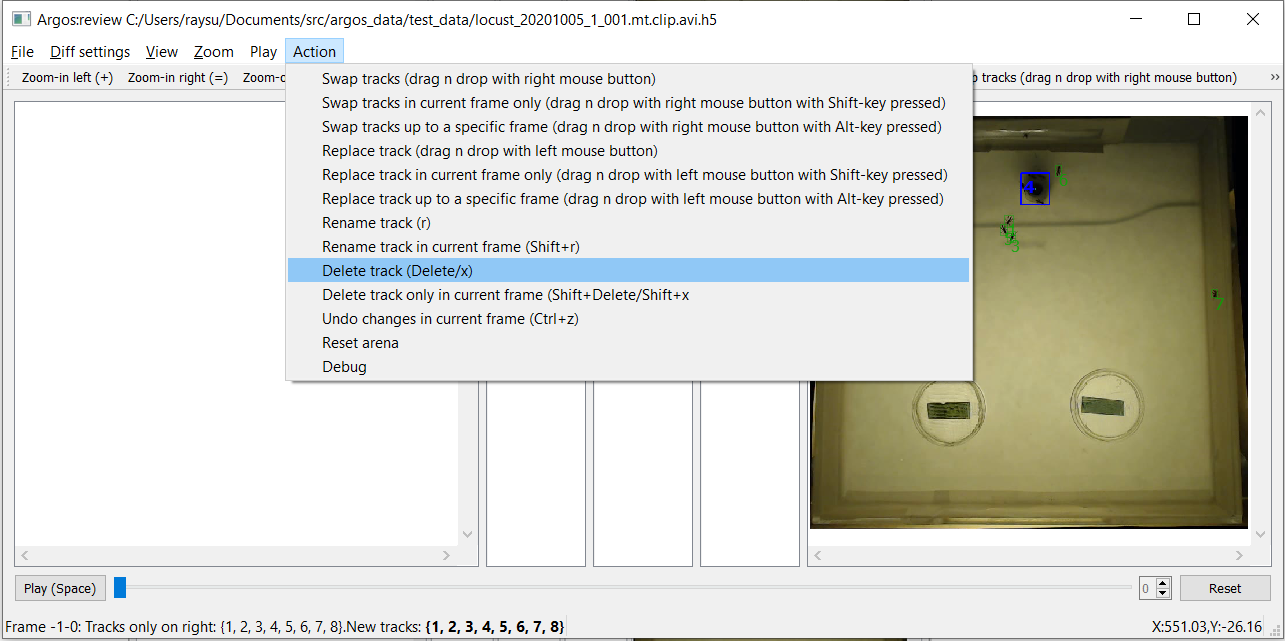
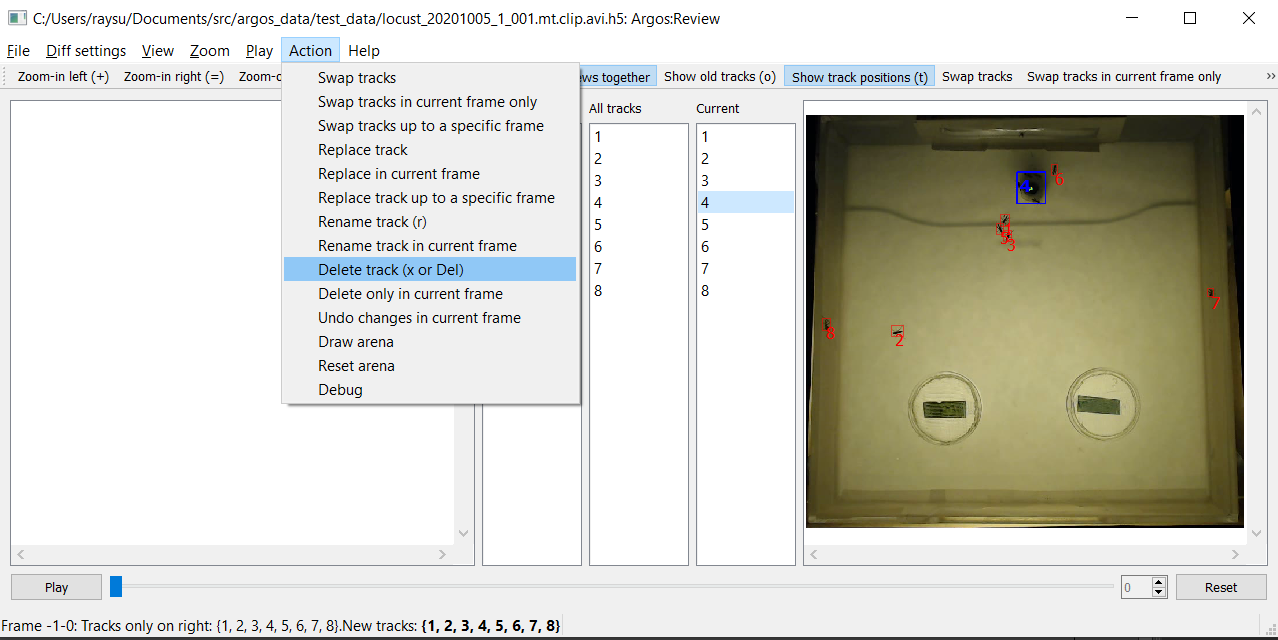
Updated review tool and its documentation.

diff --git a/argos/review.py b/argos/review.py
@@ -1405,35 +1405,70 @@ class ReviewWidget(qw.QWidget):
     def mousePosMessage(self, point: qc.QPointF) -> None:
         self.sigMousePosMessage.emit(f'X:{point.x():.02f},Y:{point.y():.02f}')
 
+    @qc.pyqtSlot()
+    def toggleShowTrackHistory(self) -> None:
+        if self.showHistoryAction.isChecked():
+            self._projectTrackHist([], 'left')
+            self._projectTrackHist([], 'right')
+            self.showHistoryAction.setChecked(False)
+            return
+
+        if self.left_list.currentItem() is None:
+            self._projectTrackHist([], 'left')
+        else:
+            self._projectTrackHist(
+                [int(self.left_list.currentItem().text())], 'left'
+            )
+        if self.right_list.currentItem() is None:
+            self._projectTrackHist([], 'right')
+        else:
+            self._projectTrackHist(
+                [int(self.right_list.currentItem().text())], 'right'
+            )
+
+        self.showHistoryAction.setChecked(True)
+
+    def _projectTrackHist(self, selected: list, side: str) -> None:
+        """Inner function to send signal to show track on either view.
+
+        Parameters
+        ----------
+        selected: list
+            List containing a single integer (trackid) or an empty list.
+        side: str
+            Side of the view to display track on, ``left`` or `right``.
+        """
+        if len(selected) == 0:
+            track = None
+        else:
+            # For both side, bring up full history
+            track = self.trackReader.getTrackId(selected[0], None)
+        if track is None:
+            track = np.empty(0)
+        else:
+            track.loc[:, 'x'] += track.w / 2.0
+            track.loc[:, 'y'] += track.h / 2.0
+            track = track[['x', 'y']].values
+        # print('Track', track)
+        if side == 'left':
+            self.sigProjectTrackHistAll.emit(track)
+        else:
+            self.sigProjectTrackHist.emit(track)
+
     @qc.pyqtSlot(list)
     def projectTrackHist(self, selected: list) -> None:
         if not self.showHistoryAction.isChecked():
-            return
-        if len(selected) == 0:
-            track = np.empty(0)
-            if self.sender() == self.right_list:
-                self.sigProjectTrackHist.emit(track)
-            else:
-                self.sigProjectTrackHistAll.emit(track)
+            if len(self.leftView.frameScene.trackHist) > 0:
+                self.sigProjectTrackHistAll.emit(np.empty(0))
+            if len(self.rightView.frameScene.trackHist) > 0:
+                self.sigProjectTrackHist.emit(np.empty(0))
             return
 
-        for sel in selected:
-            if self.sender() == self.right_list:
-                track = self.trackReader.getTrackId(
-                    sel, self.frame_no, self.history_length
-                )
-            else:
-                track = self.trackReader.getTrackId(sel, None)
-            if track is None:
-                track = np.empty(0)
-            else:
-                track.loc[:, 'x'] += track.w / 2.0
-                track.loc[:, 'y'] += track.h / 2.0
-                track = track[['x', 'y']].values
-            if self.sender() == self.right_list:
-                self.sigProjectTrackHist.emit(track)
-            else:
-                self.sigProjectTrackHistAll.emit(track)
+        if self.sender() == self.right_list:
+            self._projectTrackHist(selected, 'right')
+        else:
+            self._projectTrackHist(selected, 'left')
+            return
 
     @qc.pyqtSlot(Exception)
     def catchSeekError(self, err: Exception) -> None:
@@ -1810,6 +1845,7 @@ class ReviewWidget(qw.QWidget):
         self.showHistoryAction = qw.QAction('Show track positions (t)')
         self.showHistoryAction.setCheckable(True)
         self.showHistoryAction.setChecked(True)
+        self.showHistoryAction.triggered.connect(self.toggleShowTrackHistory)
         self.swapTracksAction = qw.QAction('Swap tracks')
         self.swapTracksAction.setToolTip('Drag n drop with right mouse button')
         self.swapTracksAction.triggered.connect(self.swapTracks)
@@ -1970,7 +2006,7 @@ class ReviewWidget(qw.QWidget):
         self.sc_old_tracks = qw.QShortcut(qg.QKeySequence('O'), self)
         self.sc_old_tracks.activated.connect(self.showOldTracksAction.toggle)
         self.sc_hist = qw.QShortcut(qg.QKeySequence('T'), self)
-        self.sc_hist.activated.connect(self.showHistoryAction.toggle)
+        self.sc_hist.activated.connect(self.toggleShowTrackHistory)
         self.sc_keepsel = qw.QShortcut(qg.QKeySequence('S'), self)
         self.sc_keepsel.activated.connect(self.keepSelectionAction.toggle)
         self.sc_next = qw.QShortcut(qg.QKeySequence(qc.Qt.Key_PageDown), self)

diff --git a/doc/user.rst b/doc/user.rst
@@ -783,7 +783,8 @@ the data file first.
 
 Now delete object ``4`` by pressing ``x`` or ``Delete`` on keyboard,
 or selecting ``Delete track`` from ``Action`` in menubar
-(:numref:`review_delete`). On macos, the ``delete`` key is actually ``backspace``, and you have to use ``fn+delete`` to delete an object.
+(:numref:`review_delete`). On MacOS, the ``delete`` key is actually
+``backspace``, and you have to use ``fn+delete`` to delete an object.
 
 .. _review_delete:
 .. figure:: ../doc/images/review_03.png
@@ -794,7 +795,7 @@ or selecting ``Delete track`` from ``Action`` in menubar
 
 Once you delete ``4``, selection will change to the next object
 (``# 5``) and the path taken by it over time will be displayed in the
-same purple-to-yellow color code (:numref:`review_post_delete`) [#]_.
+same purple-to-yellow color code (:numref:`review_post_delete`) [#]_. Also notice that the window title now has a ``*`` before it, indicating that you have unsaved changes.
 
 .. [#] Changing the frame will clear the selection and the path
        display. If you want the selection (and the path-display of the
@@ -809,9 +810,9 @@ same purple-to-yellow color code (:numref:`review_post_delete`) [#]_.
    Screenshot of review tool after deleting object, as the next object
    is selected.
 
-Now to play the video, click the ``play`` button at bottom. The right
-frame will be transferred to the left pane, and the next frame will
-appear in the right pane.
+Now to play the video, click the ``play`` button at bottom (or press
+``Space bar`` on the keyboard). The right frame will be transferred to
+the left pane, and the next frame will appear in the right pane.
 
 You will notice the spinbox on bottom right updates the current frame
 number as we go forward in the video. Instead of playing the video,
@@ -861,7 +862,9 @@ previous frame are different from those on the current frame, the video will
 be paused with a popup message.
 
 If you want to just watch the video without interruption, select ``No
-popup message for tracks``.
+popup message for tracks``. Whenever there is a left-right mismatch,
+there will still be a status message so that you can see the what and
+where of the last mismatch.
 
 The other option ``Overlay previous frame``, if selected, will overlay
 the previous frame on the right pane in a different color. This may be
@@ -879,13 +882,70 @@ and right display is not good enough (:numref:`review_overlay`).
    more red or blue in pixels where they mismatch.
 
 
+The default view showing the previous and the current frame side by
+side can result in rather small area for each side. You can dedicate
+the entire visualization area to the current frame by turning off
+side-by-side view from the ``Diff settings`` menu
+(:numref:`review_toggle_side_by_side`).
+
+.. _review_toggle_side_by_side:
+.. figure:: ../doc/images/review_08.1.png
+   :width: 100%
+   :alt: Toggle side-by-side view
+
+   Menu option to switch between side-by-side view and single-frame view.
+
+This will keep the three lists, but remove the previous frame view
+(:numref:`review_single_frame_view`). A drawback of this is that
+now you can see the path for objects only in the current frame. But
+you can quickly go back and forth in frames by pressing the ``PgUp``
+and ``PgDn`` keys.
+
+.. _review_single_frame_view:
+.. figure:: ../doc/images/review_08.2.png
+   :width: 100%
+   :alt: Single frame view
+
+   Turning off side-by-side view gives the maximum screen area to the
+   current frame, allowing closer inspection of the video.
+
+   
+.. _review_select_roi:   
+   
 Selecting a region of interest (ROI)
 ====================================
-If you want to process only a certain part of the frames, you can draw an ROI
-by clicking the left mouse-button to set the vertices of a polygon. Click on
-the first vertex to close the polygon. If you want to cancel it half-way, click
-the right mouse-button.
 
+It can be tricky to fit the behavioral arena perfectly inside the
+camera frame. Thus one may end up including some area outside the
+arena when recording behavior videos. This can include clutter that is
+incorrectly identified as objects by the Argos Tracking tool. To
+exclude anything detcted outside your region of interest (ROI), you
+can draw a polygon to outline the ROI. To do this, first enable ROI
+selection mode by checking the ``Action->Draw arena`` item in the
+menubar (:numref:`review_arena`).  Then click left mouse-button at desired vertex positions in
+the frame to draw a polygon that best reflects your desired
+region. Click on the first vertex to close the polygon. If you want to
+cancel it half-way, click the right mouse-button.
+
+When finished, you can uncheck the ``Draw arena`` menu item to avoid
+unintended edits. When you save the corrected data, all IDs outside
+the arena will be excluded for all frames starting with the one on
+which you drew the arena.
+
+To reset the ROI to the full frame, click ``Reset
+arena`` in the ``Action`` menu.
+
+.. _review_arena:
+.. figure:: ../doc/images/review_09.png
+   :width: 100%
+   :alt: Selecting the arena / region of interest in review tool.
+
+   Drawing a polygon (magenta lines) to specify the arena/region of
+   interest to include only objects detected (partially) within this
+   area.
+
+   
+.. _review_track_lists:   
 
 The track lists 
 ===============
@@ -912,7 +972,7 @@ later).
   overlayed on the current frame in the right pane.
 
 .. _review_track_hist:
-.. figure:: ../doc/images/review_09.png
+.. figure:: ../doc/images/review_10.png
    :width: 100%
    :alt: Track of the selected object
 
@@ -921,6 +981,7 @@ later).
    object in the ``Current tracks`` is displayed on the right pane.
 
 
+.. _review_moving_around:   
 
 Moving around and break points
 ==============================
@@ -963,6 +1024,8 @@ then you can jump to the frame corresponding to the next change (after
 current frame) by pressing ``C`` and to the last change (before
 current frame) by pressing ``Shift + C`` on the keyboard.
 
+
+.. _review_correcting_tracks:
 
 Correcting tracks
 =================
@@ -1065,7 +1128,7 @@ multiple changes in this frame, this operation will revert all of
 them.
 
 .. _review_track_changes:
-.. figure:: ../doc/images/review_10.png
+.. figure:: ../doc/images/review_11.png
    :width: 100%
    :alt: List of changes suggested to tracks
 
@@ -1078,9 +1141,12 @@ You can save the list of changes into a text file with comma separated
 values and load them later using entries in the ``File`` menu. The
 changes will become permanent once you save the data (``File->Save
 reviewed data``). However, the resulting HDF5 file will include the
-list of changes in a time-stamped table
-:``changes/changelist_YYYYmmdd_HHMMSS``, so you can refer back to past
-changes applied to the data
+list of changes in a time-stamped table:
+``changes/changelist_YYYYmmdd_HHMMSS``, so you can refer back to past
+changes applied to the data (see :ref:`review_note_data_format`).
+
+
+.. _review_tips:
 
 Tips 
 ==== 
@@ -1144,17 +1210,7 @@ any changes you made during a session. To show the updated path, you
 have to first save the data so that all your changes are consolidated.
 
 
-
-Selecting a region of interest
-==============================
-
-You can exclude some spurious detections by defining a region of interest
-in the review tool. Click on the right frame with left-mouse button in order
-to start drawing a polygon. Keep clicking to add a vertex at current mouse
-cursor position. To close the polygon, click as close to the starting point 
-as possible. This will crop the frame to polygon and fit it within the view.
-As you move forward, any detection outside the polygon will be excluded.
-
+.. _review_note_video_format:
 
 Note on video format 
 ====================
@@ -1169,6 +1225,7 @@ review tool will disable ``seek`` when it detects this. To enable seek
 when the video format permits it, uncheck the ``Disable seek`` item
 in the ``Play`` menu.
 
+.. _review_note_data_format:
 
 Note on data format
 ===================
